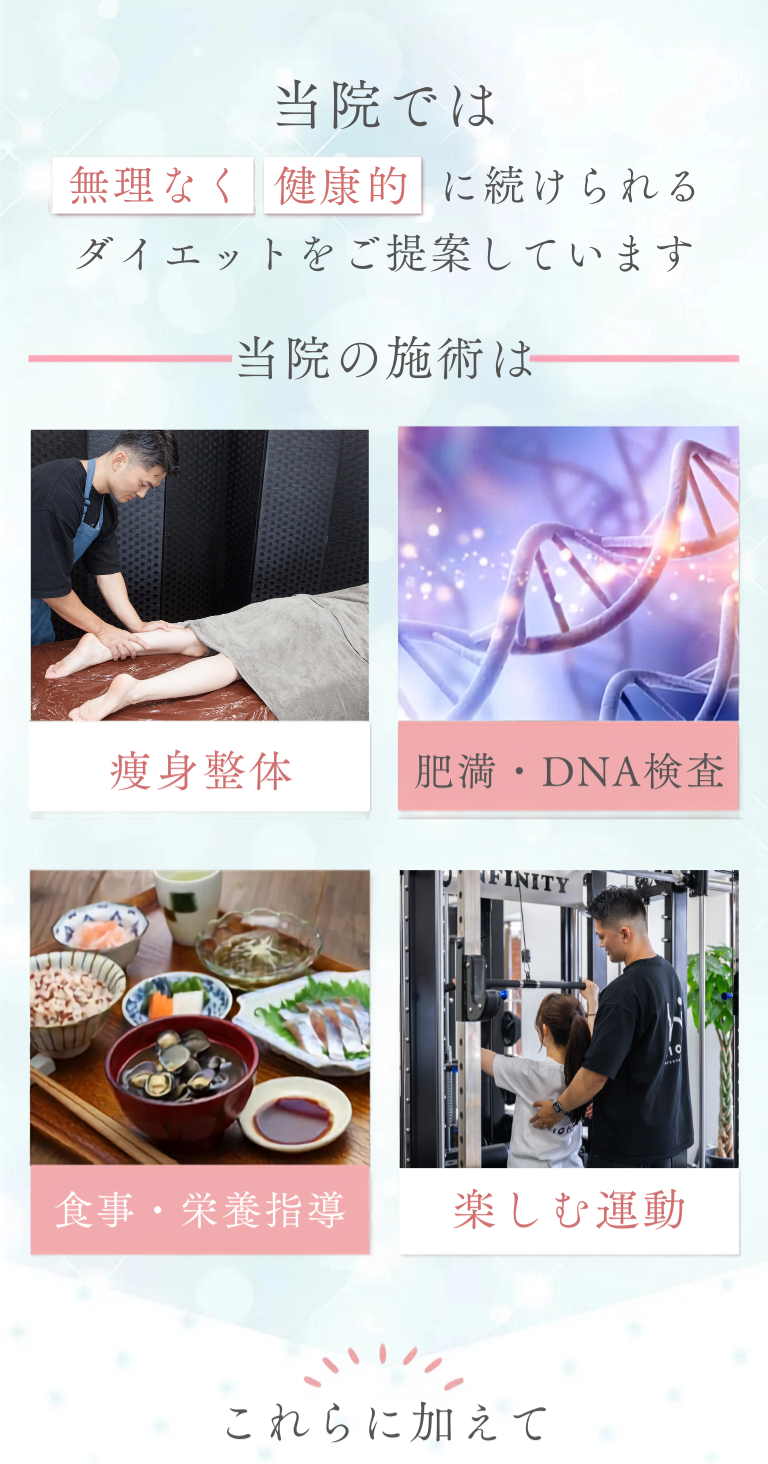
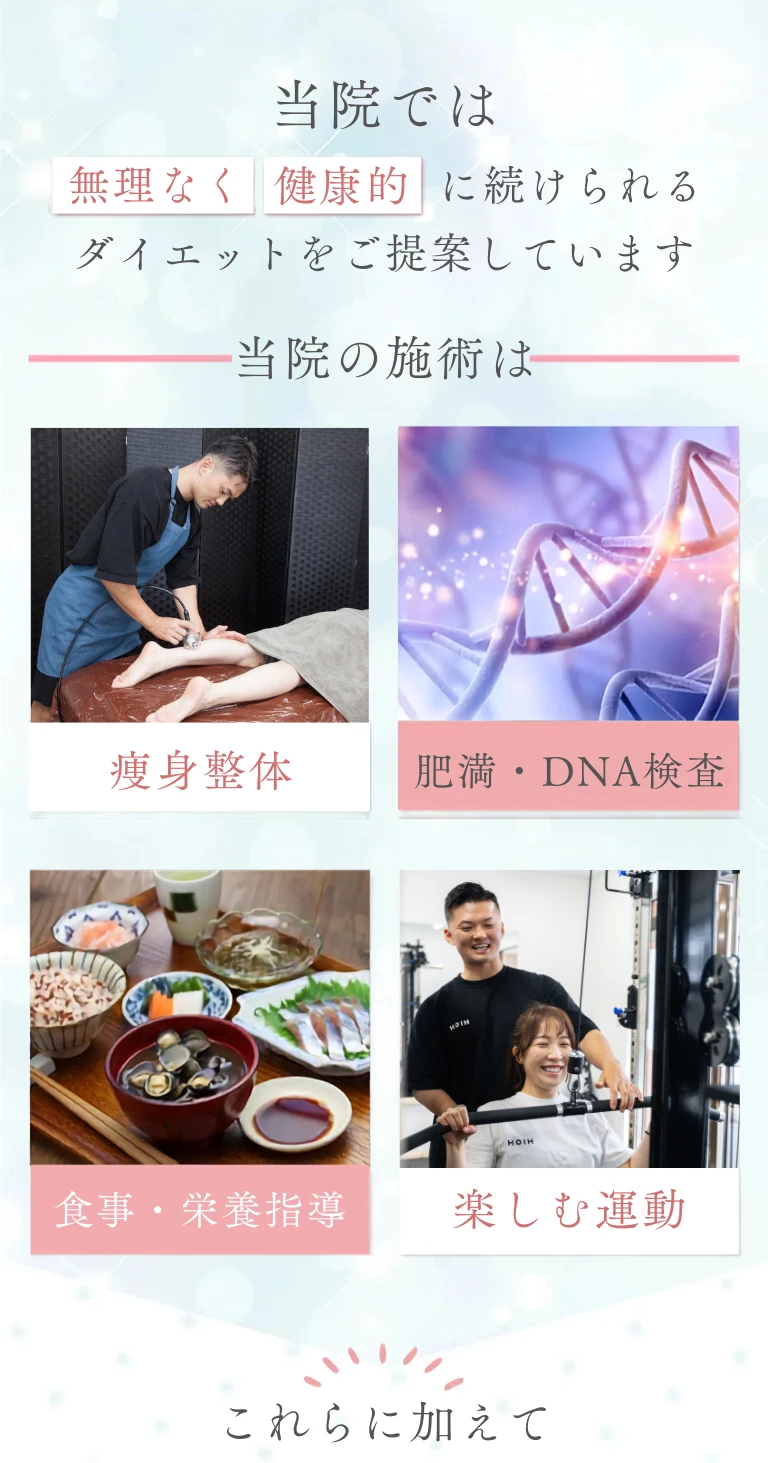
Swap in the final three section images and true up every declared height
11-treatment.png   1464 -> 1463  new photos in the four-panel grid
  20-reason-02.png   1261 -> 1260
  31-shop-02.png      578 ->  578  "HIOH PERSONAL GYM" -> "HIOH Personal GYM"

As before, each image was matched to its target by whole-image comparison
rather than dimensions; every match beat its runner-up by a wide margin.

Also corrects four height attributes left over from the original Figma
export, where a fractional layer height rounded down: 03-fv-under (847),
06-over40-02 (1139), 08-worry-02 (1166) and 16-exercise-01 (758) each sat
one pixel under the image they describe. All 37 images now declare exactly
the size they are, so nothing shifts as the page loads.

Verified in Chromium at 375 / 768 / 1280px: 53 <img> elements over 37
files, none broken, declared and intrinsic sizes agree on every one, no
gaps or overlap between stacked images, and no horizontal scroll.

Claude-Session: https://claude.ai/code/session_01YDNfDSVnqqEGd8VKB9pYDG

diff --git a/index.html b/index.html
@@ -44,7 +44,7 @@
     <section aria-label="ファーストビュー">
       <img class="lp__img" src="images/02-fv.png" width="768" height="753"
            alt="何をしても痩せなかったあなたへ。体質から変えるパーソナルダイエット｜HIOH personal GYM">
-      <img class="lp__img" src="images/03-fv-under.png" width="768" height="847" loading="lazy"
+      <img class="lp__img" src="images/03-fv-under.png" width="768" height="848" loading="lazy"
            alt="初回体験2,980円（税込）・毎月6名様限定のご案内">
       <a class="lp__link js-cta js-cta--line" href="#">
         <img class="lp__img" src="images/04-cta-banner.png" width="768" height="268" loading="lazy"
@@ -56,7 +56,7 @@
     <section aria-label="40代を超えてから痩せにくくなった方へ">
       <img class="lp__img" src="images/05-over40-01.png" width="768" height="1042" loading="lazy"
            alt="40代を超えてから、昔と同じ方法では痩せなくなった方へ">
-      <img class="lp__img" src="images/06-over40-02.png" width="768" height="1139" loading="lazy"
+      <img class="lp__img" src="images/06-over40-02.png" width="768" height="1140" loading="lazy"
            alt="年齢とともに変化する代謝と体質についての解説">
     </section>
 
@@ -80,7 +80,7 @@
     <section aria-label="こんなお悩みはありませんか">
       <img class="lp__img" src="images/07-worry-01.png" width="768" height="1346" loading="lazy"
            alt="こんなお悩みはありませんか？（お腹まわり・リバウンド・自己流ダイエット）">
-      <img class="lp__img" src="images/08-worry-02.png" width="768" height="1166" loading="lazy"
+      <img class="lp__img" src="images/08-worry-02.png" width="768" height="1167" loading="lazy"
            alt="ダイエットがうまくいかない原因の解説">
       <img class="lp__img" src="images/09-worry-rank.png" width="768" height="1100" loading="lazy"
            alt="ダイエットのお悩みランキング">
@@ -140,7 +140,7 @@
 
     <!-- ============ 運動が苦手な方へ ============ -->
     <section aria-label="運動が苦手な方へ">
-      <img class="lp__img" src="images/16-exercise-01.png" width="768" height="758" loading="lazy"
+      <img class="lp__img" src="images/16-exercise-01.png" width="768" height="759" loading="lazy"
            alt="運動は苦手・続かないという方へ">
       <img class="lp__img" src="images/17-body-care.png" width="768" height="1209" loading="lazy"
            alt="体を整えてから痩せるという考え方">
@@ -152,7 +152,7 @@
     <section aria-label="当ジムで痩せられる理由">
       <img class="lp__img" src="images/19-reason-01.png" width="768" height="1218" loading="lazy"
            alt="痩せられる理由1">
-      <img class="lp__img" src="images/20-reason-02.png" width="768" height="1261" loading="lazy"
+      <img class="lp__img" src="images/20-reason-02.png" width="768" height="1260" loading="lazy"
            alt="痩せられる理由2">
       <img class="lp__img" src="images/21-reason-03.png" width="768" height="1260" loading="lazy"
            alt="痩せられる理由3">

diff --git a/README.md b/README.md
@@ -34,12 +34,12 @@ images/           デザイン画像（768px幅）
 |---|---|---|---|
 | 1 | `01-header-cta.png` | 768 × 114 | FV_CTA 1 |
 | 2 | `02-fv.png` | 768 × 753 | LP_FVデザイン（差し替え版・別途支給） |
-| 3 | `03-fv-under.png` | 768 × 847 | FV直下デザイン 768×847 |
+| 3 | `03-fv-under.png` | 768 × 848 | FV直下デザイン 768×847 |
 | 4 | `04-cta-banner.png` | 768 × 268 | Figure → Link → FV_MY4_4.webp |
 | 5 | `05-over40-01.png` | 768 × 1042 | 40才を超えてから_01 |
-| 6 | `06-over40-02.png` | 768 × 1139 | 40才を超えてから_02 |
+| 6 | `06-over40-02.png` | 768 × 1140 | 40才を超えてから_02 |
 | 7 | `07-worry-01.png` | 768 × 1346 | お悩み_01 |
-| 8 | `08-worry-02.png` | 768 × 1166 | お悩み_02 |
+| 8 | `08-worry-02.png` | 768 × 1167 | お悩み_02 |
 | 9 | `09-worry-rank.png` | 768 × 1100 | お悩みランキング |
 | 10 | `10-diet-worry.png` | 768 × 665 | ダイエットお悩み |
 | 11 | `11-treatment.png` | 768 × 1463 | 当院の施術 768×1463 |
@@ -47,11 +47,11 @@ images/           デザイン画像（768px幅）
 | 13 | `13-ba-01.png` | 768 × 1224 | ビフォーアフ-MY4_01 |
 | 14 | `14-ba-02.png` | 768 × 1430 | BA_MY4_02 |
 | 15 | `15-ba-03.png` | 768 × 1497 | ビフォーアフ-MY4_03 |
-| 16 | `16-exercise-01.png` | 768 × 758 | 運動は苦手・・・_01 |
+| 16 | `16-exercise-01.png` | 768 × 759 | 運動は苦手・・・_01 |
 | 17 | `17-body-care.png` | 768 × 1209 | 体を整えて 768×1209 |
 | 18 | `18-success-rate.png` | 768 × 512 | 成功率91% 768×511 |
 | 19 | `19-reason-01.png` | 768 × 1218 | 痩せられる理由1 768×1218 |
-| 20 | `20-reason-02.png` | 768 × 1261 | 痩せられる理由3 768×1260 |
+| 20 | `20-reason-02.png` | 768 × 1260 | 痩せられる理由3 768×1260 |
 | 21 | `21-reason-03.png` | 768 × 1260 | 7つの理由_MY4_003 |
 | 22 | `22-reason-04.png` | 768 × 1449 | 7つの理由_MY4_04 |
 | 23 | `23-reason-05.png` | 768 × 1464 | 痩せられる理由7 768×1464 |
